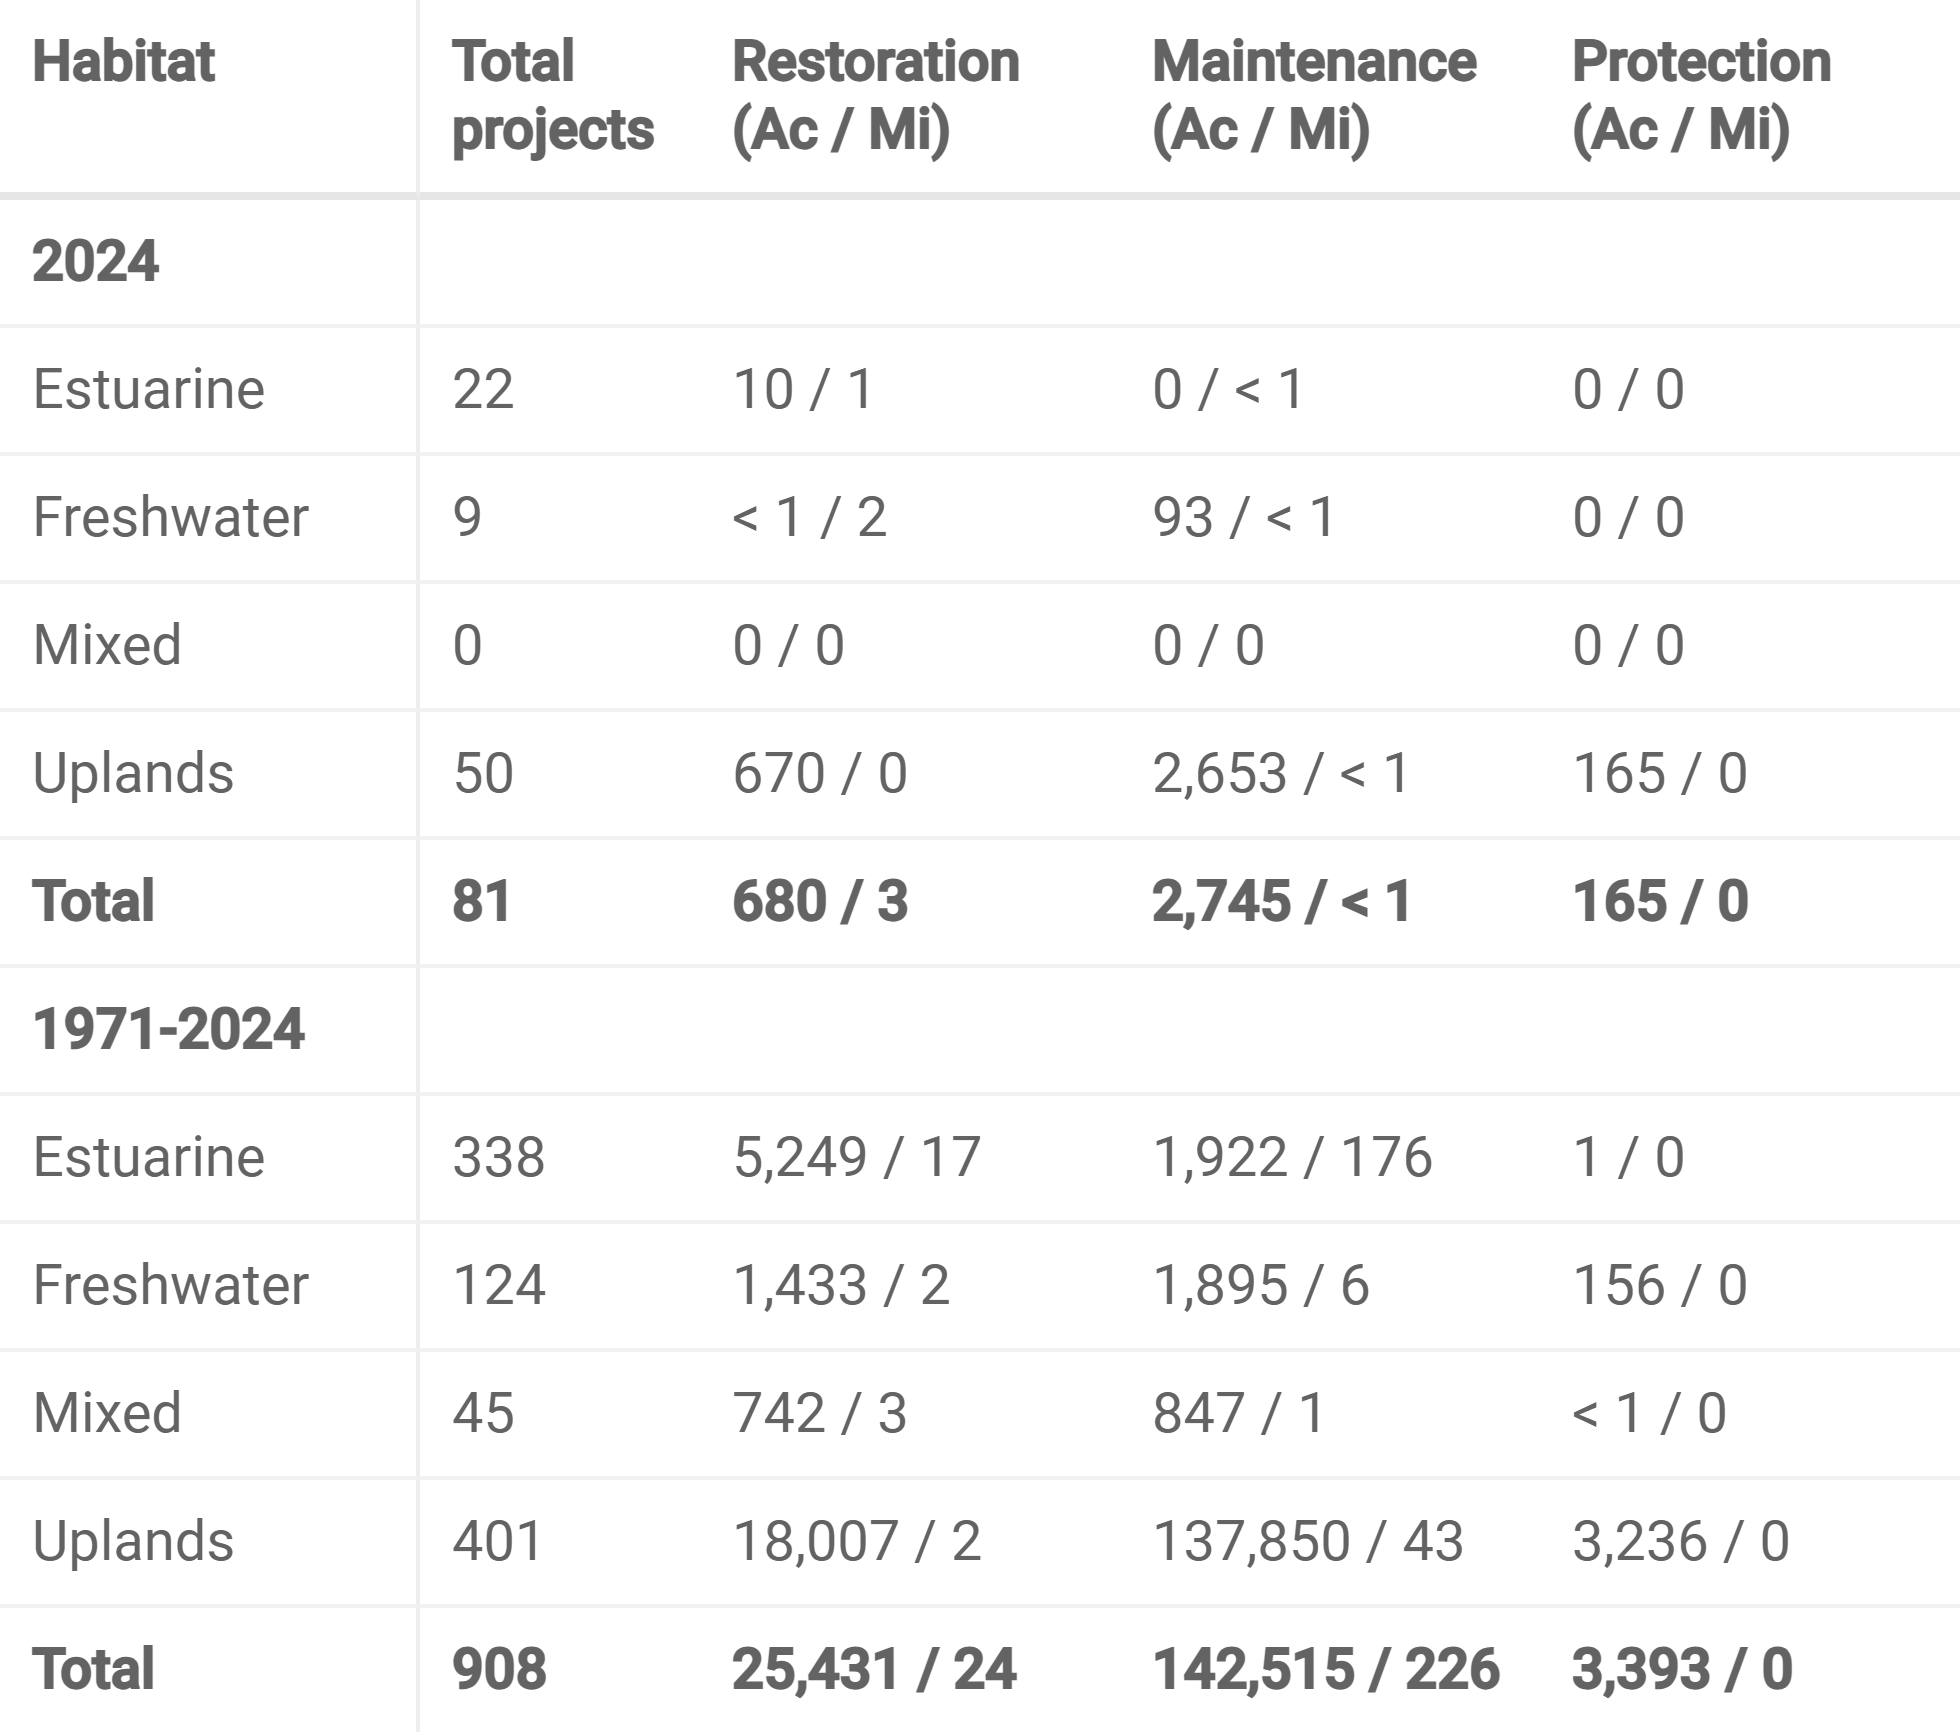
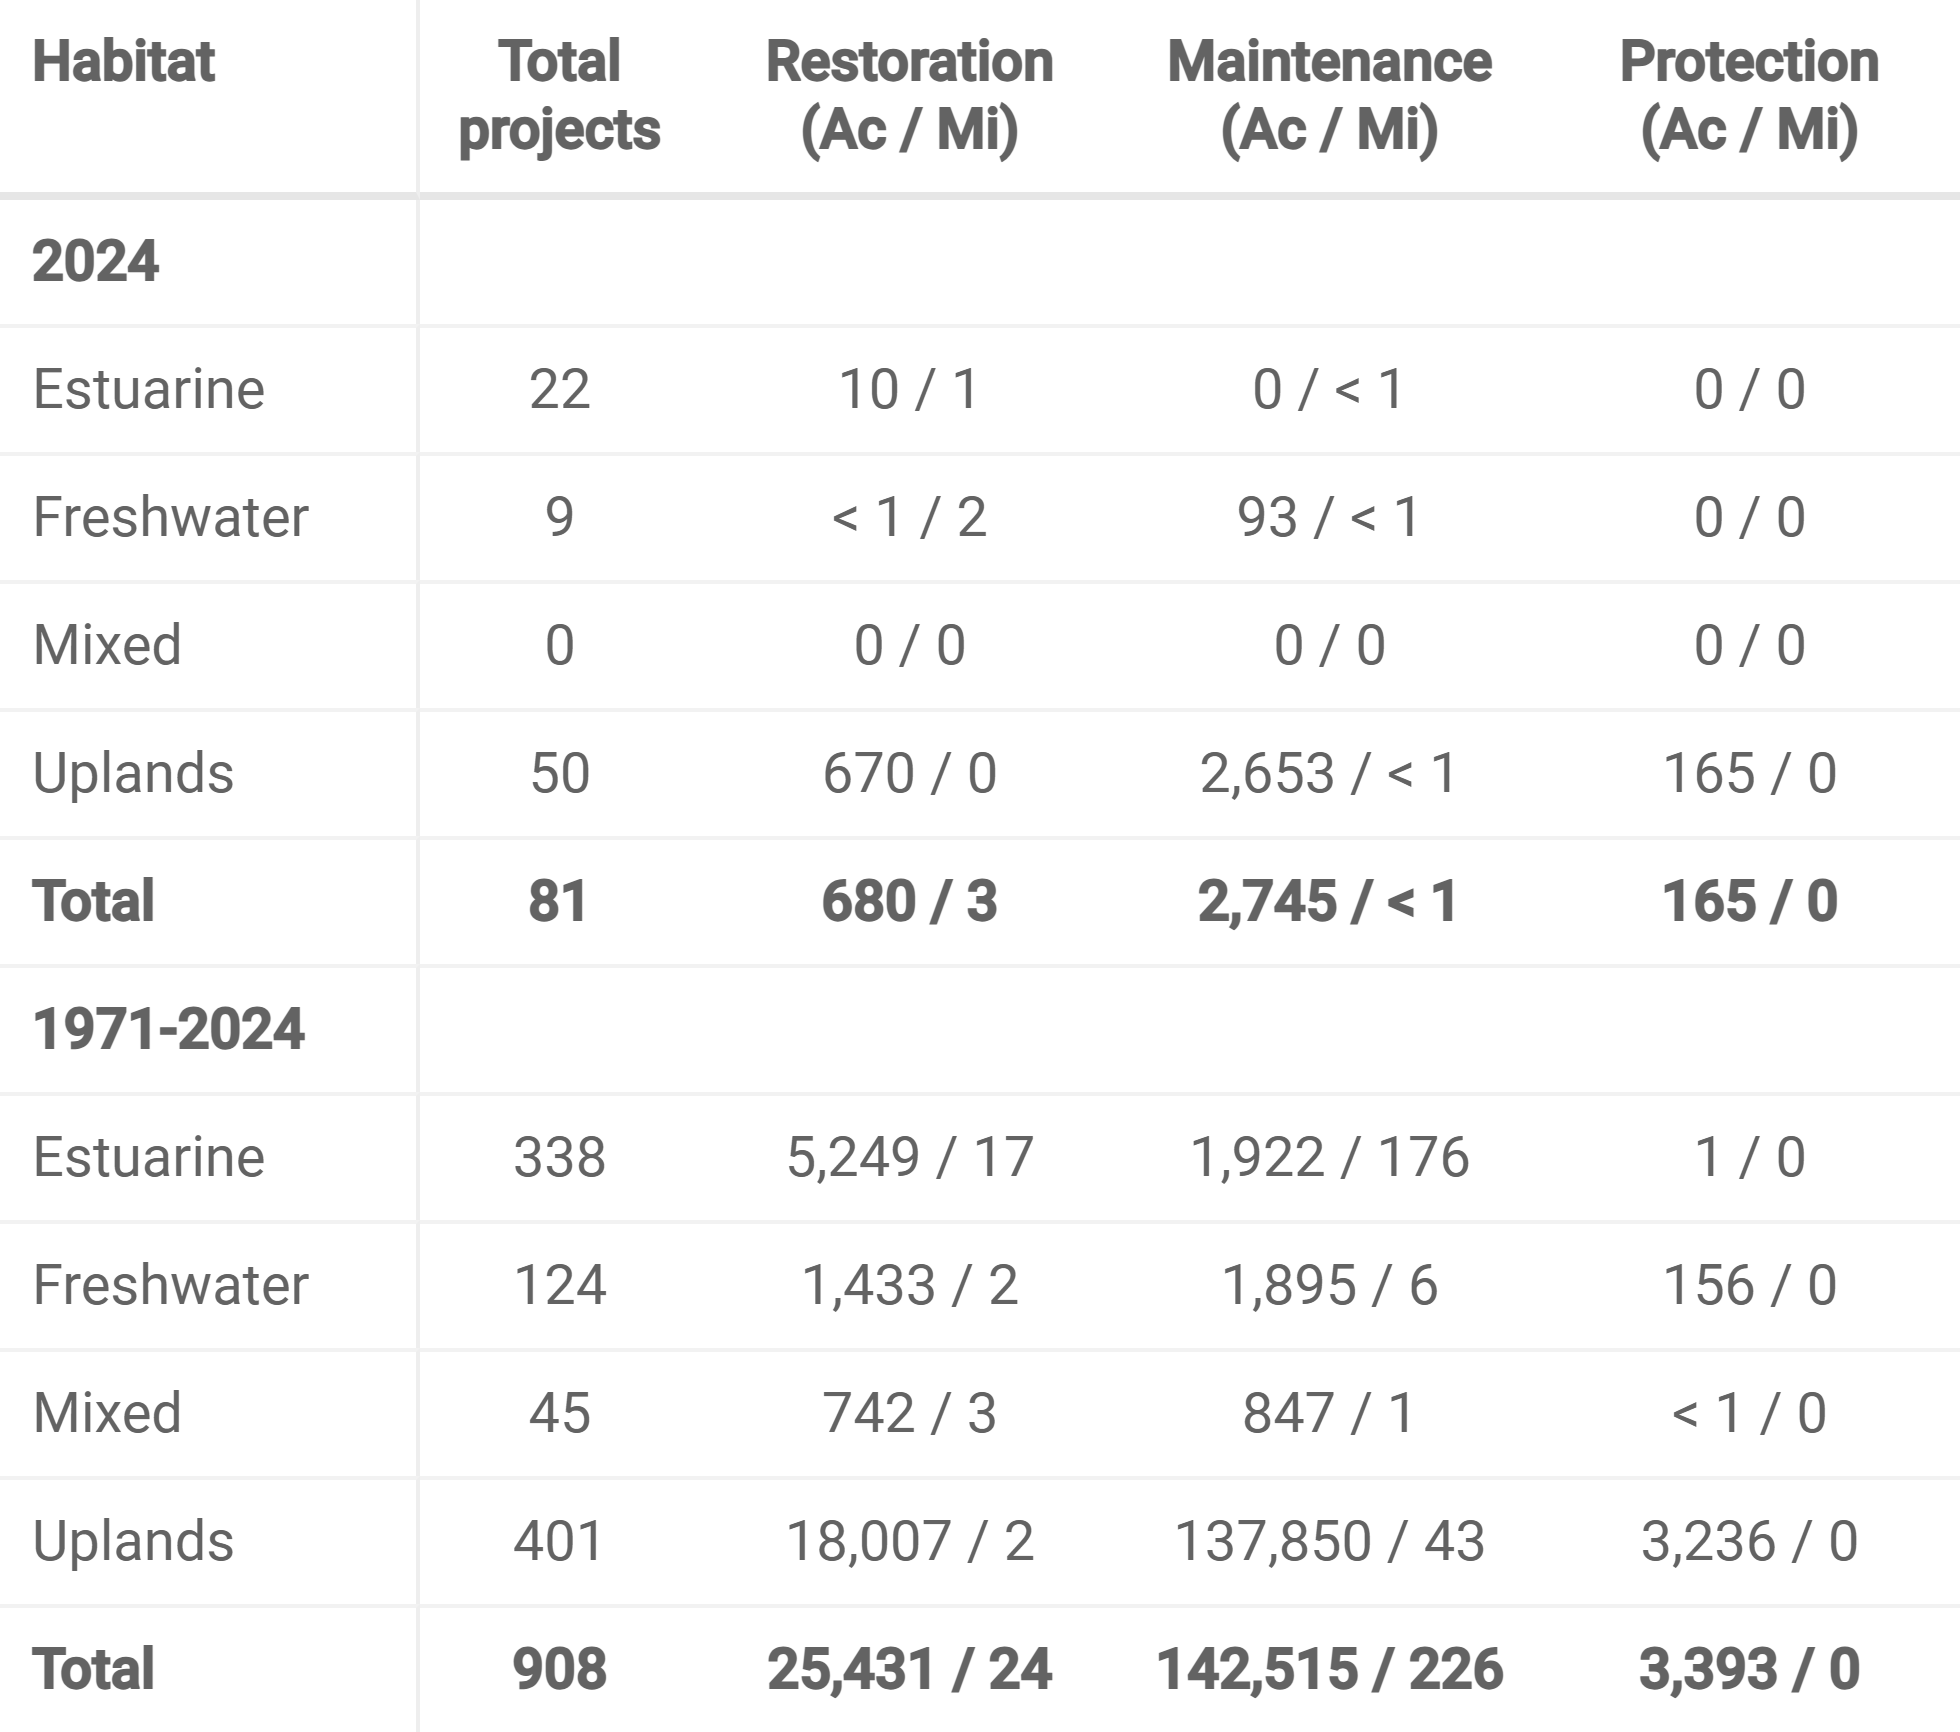
project tables have centered numbers

diff --git a/docs/summaries.html b/docs/summaries.html
@@ -701,7 +701,7 @@ window.document.addEventListener("DOMContentLoaded", function (event) {
 });
 </script>
 </div> <!-- /content -->
-<script>var lightboxQuarto = GLightbox({"openEffect":"zoom","selector":".lightbox","closeEffect":"zoom","loop":false,"descPosition":"bottom"});
+<script>var lightboxQuarto = GLightbox({"loop":false,"selector":".lightbox","descPosition":"bottom","closeEffect":"zoom","openEffect":"zoom"});
 window.onload = () => {
   lightboxQuarto.on('slide_before_load', (data) => {
     const { slideIndex, slideNode, slideConfig, player, trigger } = data;
